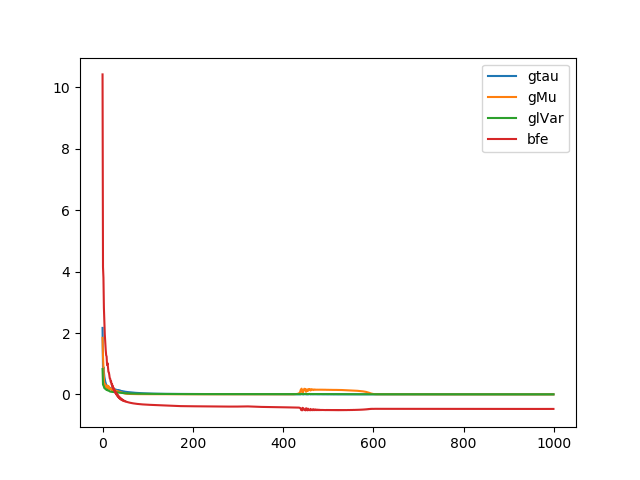
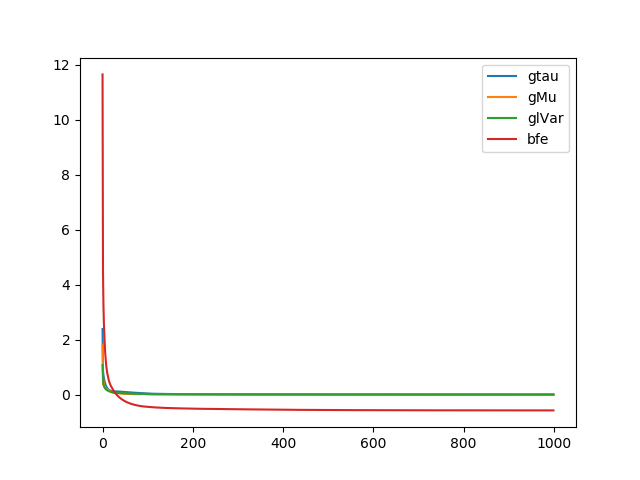
increase variance lower bound (1e-3 -> 5e-3), rerun cont test case in test_osi, no more oscillation, BFE strictly decreasing, final BFE=-0.574129 (groud truth -logZ = -0.6094)

diff --git a/osi/OneShot.py b/osi/OneShot.py
@@ -85,7 +85,7 @@ class OneShot:
         if g.Nc > 0:  # assuming Gaussian
             # hard-coded for now
             Mu_bds = [-10, 10]
-            Var_bds = [1e-3, 10]
+            Var_bds = [5e-3, 10]
             lVar_bds = np.log(Var_bds)
 
             Mu = tf.Variable(np.random.uniform(low=Mu_bds[0] / 2, high=Mu_bds[1] / 2, size=[g.Nc, K]),
